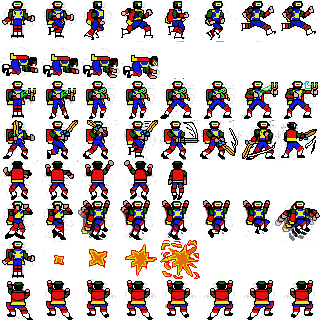
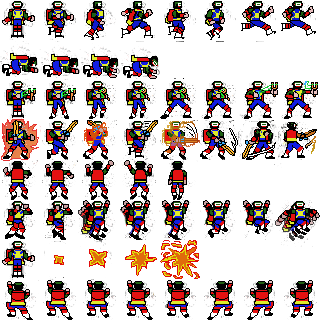
Update sword slash and add character sprite explosion

diff --git a/js/Main.js b/js/Main.js
@@ -605,7 +605,7 @@ function checkCollisionsAll() {
           if (blueHero.health <= 0) {
             document.getElementById("gameOver").style.display = "block";
             document.getElementById("gameOverSound").play();
-            blueHero.explode = 1;
+            blueHero.explode == 1;
           }
          
           /*
@@ -662,6 +662,7 @@ function checkCollisionsAll() {
           if (blueHero.health <= 0) {
             document.getElementById("gameOver").style.display = "block";
             document.getElementById("gameOverSound").play();
+            blueHero.explode = 1;
           }
           break;
         default:
